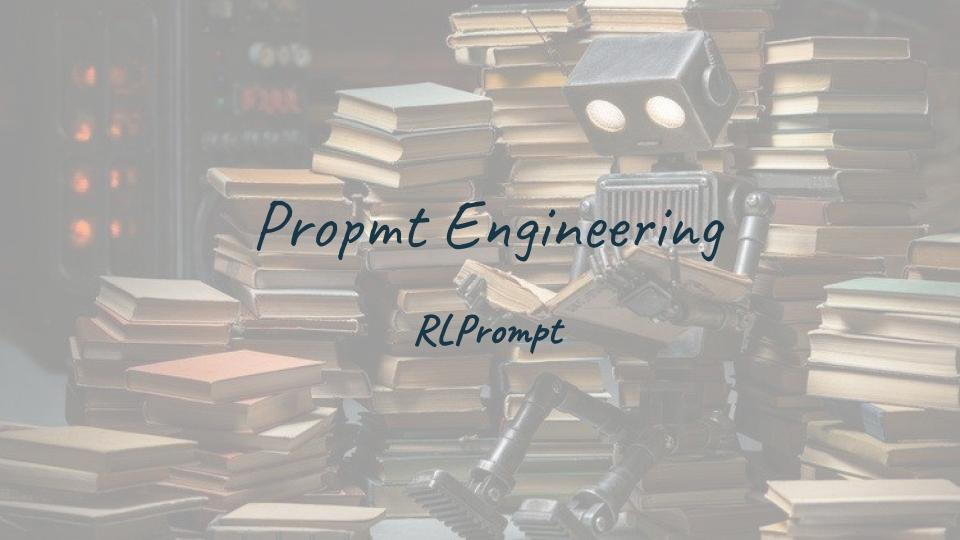
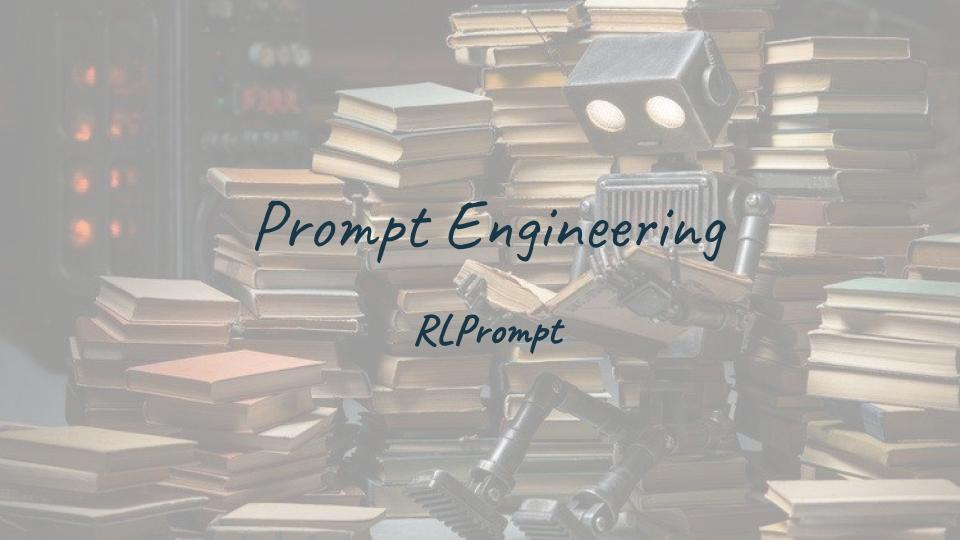
Some problems resolved

Changed region(s): [[0.25, 0.3556, 0.75, 0.5037]]

diff --git a/papers/weekly-review/_posts/2023-02-12-week-6.md b/papers/weekly-review/_posts/2023-02-12-week-6.md
@@ -11,10 +11,10 @@ hide_last_modified: true
 ---
 
 Several interesting papers are published in this week in NLP. Here is a list of them:
-* [Toolformer: Language Models Can Teach Themselves to Use Tools][ToolformerLink]
-* [Offsite-Tuning: Transfer Learning without Full Model][OffsiteTuning]
+* [Toolformer: Language Models Can Teach Themselves to Use Tools][ToolformerSum]
+* [Offsite-Tuning: Transfer Learning without Full Model][OffsiteTuningSum]
 
-## Toolformer
+## [Toolformer][ToolformerPaper]
 
 This paper is really interesting, because it shows that language models, such as GPT-3, can be trained to perform arithmetic operations, such as addition, subtraction, multiplication, and division, with a high level of accuracy. While probabilistic methods are often used to generate answers to questions, some questions have a definite answer that should be calculated rather than generated randomly. In such cases, the use of language models that can generate exact answers can be beneficial. 
 
@@ -27,7 +27,7 @@ The idea in [Toolformer][ToolformerLink] is to leverage some external tools (e.g
 After calculating $$loss_1$$ and $$loss_2$$, if ($$loss_2$$ - $$loss_1$$) is more than a specific threshold, then it means that adding the API call can help the model to generate a sentence similar to the original one. So, in this case, the augmented sentence is added to the train dataset. 
 
 
-## Offsite-Tuning 
+## [Offsite-Tuning][OffsiteTuningPaper]
 
 This problem focuses on a very interesting problem. Recently, Large Language Models (LLMs) are being increasingly popular because of their fantastic performance for different task. However, since these models are very large and also significantly-high computation power is required for training or even fine-tuning them, users cannot download the model weights on their systems to adapt them based on their data and task. Apart from that, in some cases the model owners are also very reluctant to share their models publicly--such as GPT-3 proposed by OpenAI. The approach that is now being used by both model owners and data owner is that the data owner sends the data to the model owner data. Then, the model owner fine-tune the model based on the data and provides the access to the fine-tuned model to the data owner [Link][Gpt3Finetuning]. This process violates the privacy of data owners, because they need to send their data directly to the model owners. 
 
@@ -55,6 +55,8 @@ Accordingly, the three requirements metioned above can be formulated as follows:
 
 In general, this is a very novel approach for addressing the violation of data privacy problem in fine-tuning LLMs.
 
-[ToolformerLink]: https://arxiv.org/pdf/2302.04761.pdf
-[OffsiteTuning]: https://arxiv.org/pdf/2302.04870.pdf
+[ToolformerPaper]: https://arxiv.org/pdf/2302.04761.pdf
+[ToolformerSum]: /papers/weekly-review/nlp/2023-02-12-week-6/#toolformer
+[OffsiteTuningPaper]: https://arxiv.org/pdf/2302.04761.pdf
+[OffsiteTuningSum]: /papers/weekly-review/nlp/2023-02-12-week-6/#offsite-tuning
 [Gpt3Finetuning]: https://platform.openai.com/docs/guides/fine-tuning

diff --git a/papers/_posts/2023-05-01-prompts-rl.md b/papers/_posts/2023-05-01-prompts-rl.md
@@ -19,13 +19,13 @@ This paper proposed an RL-based approach for optimizing the discrete prompts. In
 
 Generally, RLPrompt is a Multi-Layer Perceptron (MLP)--represented by $$\pi$$--which is same as the <i>policy</i> concept in RL. Let us say that $$\theta$$ is the weights and parameter-set for $$\pi$$. Then, we can use the notation of $$\pi_{\theta}$$ to denote the MLP and its parameters. So, for each downstream task, $$\pi_{\theta}$$ is first trained to find the optimal set of prompts. From then, the optimal prompts can be used for that specific downstream task. But the question is that how such MLP should be trained in order to find the optimal prompts per task?
 
-Let us say that we are going to train $$\pi_{\theta}$$ for task T (e.g., a classification task), then the training procedure is as follows:
+Let us say that we are going to train $$\pi_{\theta}$$ for task $$D$$ (e.g., a classification task), then the training procedure is as follows:
 
 1. First, we need to get the embedding of input $$x$$. So, we can use an embedding model for encoding the input sentence. This embedding model can be any language model, such as BERT, DistillBERT, RoBERTa, etc.
 
 1. Input $$x$$ is passed to $$\pi_{\theta}$$ and the prompt set $$z$$ is returned. To be more specific, $$\pi_{\theta}$$ returns a token for each round. So, for generating a prompt with $$T$$ tokens, it should be called for $$T$$ times. If we want to have a prompt of size $$T$$, then we need to get the tokens corresponding to the top $$T$$ highest probabilities. ($$z = [z_1, ..., z_T]$$)
 
-1. The concatenation of prompt $$z$$ and the input $$x$$ are passed to the langugage model which is used for downstream task $$T$$. This language model is represetend by $$LM$$, and its output is denoted by $$y_{LM}(z, x)$$. The performance of the LM for task $D$ is represented as $$R$$. $$R$$ is a function which takes the output of the langugae model as input and returns the score (how well is the output)--$$score = R(y_{LM}(z, x))$$. Moreover, the authors mention that for having a stable MLP the score value should be normalized!
+1. The concatenation of prompt $$z$$ and the input $$x$$ are passed to the langugage model which is used for downstream task $$D$$. This language model is represetend by $$LM$$, and its output is denoted by $$y_{LM}(z, x)$$. The performance of the LM for task $$D$$ is represented as $$R$$. $$R$$ is a function which takes the output of the langugae model as input and returns the score (how well is the output)--$$score = R(y_{LM}(z, x))$$. For example, for the classification task, $$R$$ is the how frequent the model can predict the gold label. Moreover, the authors mention that for having a stable MLP the score value should be normalized!
 
 1. According to the $$score$$ value computed in the previous step, $$\pi_{\theta}$$ is trained and $$\theta$$ is updated.
 

diff --git a/papers/weekly-review/_posts/2023-03-19-week-11.md b/papers/weekly-review/_posts/2023-03-19-week-11.md
@@ -12,10 +12,10 @@ hide_last_modified: true
 
 
 Several interesting papers are published in this week in NLP. Here is a list of them:
-* [CoLT5: Faster Long-range Transformers with Conditional Computation][colt5]
-* [Memorizing Transformers][memorizingTransformers]
+* [CoLT5: Faster Long-range Transformers with Conditional Computation][colt5Sum]
+* [Memorizing Transformers][memorizingTransformersSum]
 
-## CoLT5: Faster Long-range Transformers with Conditional Computation
+## [CoLT5: Faster Long-range Transformers with Conditional Computation][colt5Paper]
 
 This paper focuses on the scalability problem of computing attentions in transformer-based architectures. Such scalability problem especially appears while processing long documents with a transformer-based models; the reason is that: 
 1. A main component of the transformer architecture is the attention module. However, the attention computational cost scales quadratically with input length.
@@ -51,7 +51,7 @@ $$X_i = X_i + FFN_{Light}(X_i) + s_i * FFN_{Heavy}(X_i)$$
 They used FLOP as the metric for measuring the computational cost of their approach. Their experiments show that they could achieve less computational cost compared to their baseline--LongT5.
 
 
-## Memorizing Transformers
+## [Memorizing Transformers][memorizingTransformersPaper]
 
 The way that most of transformer-based langugae models work is that, first, they should be pretrained and finetuned; then, they can be used in different appications. During the runtime (the application phase), since the weights and model parameters are freezed, the models cannot learn anything new. So, this paper tries to solve this problem by adding an extenral memory for the transformer architecture. 
 
@@ -93,5 +93,7 @@ $$
 
 They applied their idea on different transformer-based architecture. Their finding is that adding memory to such architectures can significantly improve the performance. Even, adding a small-size memory to a light-weight transformer-based architecture can result in better performance than using a larage and heavy transformer-based architecture with a lot of learnable parameters.
 
-[memorizingTransformers]: https://arxiv.org/abs/2203.08913
-[colt5]: https://arxiv.org/pdf/2303.09752.pdf
+[memorizingTransformersPaper]: https://arxiv.org/abs/2203.08913
+[memorizingTransformersSum]: /papers/weekly-review/nlp/2023-03-19-week-11/#memorizing-transformers
+[colt5Paper]: https://arxiv.org/pdf/2303.09752.pdf
+[colt5Sum]: /papers/weekly-review/nlp/2023-03-19-week-11/#colt5-faster-long-range-transformers-with-conditional-computation

diff --git a/papers/weekly-review/_posts/2023-03-26-week-12.md b/papers/weekly-review/_posts/2023-03-26-week-12.md
@@ -12,9 +12,9 @@ hide_last_modified: true
 
 
 Several interesting papers are published in this week in NLP. Here is a list of them:
-* [Context-faithful Prompting for Large Language Models][contextFaithful]
+* [Context-faithful Prompting for Large Language Models][contextFaithfulSum]
 
-## Context-faithful Prompting for Large Language Models
+## [Context-faithful Prompting for Large Language Models][contextFaithfulPaper]
 
 This paper focuses on the fact that sometimes langugae models rely too much on their learnt knowledge, which may cause them to overlook the contextual cues and information. This can be problematic in context-sensitive NLP task. For example, if the language model is asked to answer a specific question only according to the provided context, then it is not supposed to use its own knowledge for answering the question. This problematic behavour can be investigated in two situations:
 * Knowledge Conflict: When the provided context contains some information which is in conflict with the language model's knowledge! For example:
@@ -53,4 +53,5 @@ For MRC task, they replaced some random entities in the dataset with something e
 For RE task, the same approach is applied! The relations are replaced with something else. Then, the model is asked to answer according the counterfactual context.
 
 
-[contextFaithful]: https://arxiv.org/pdf/2303.11315.pdf
+[contextFaithfulPaper]: https://arxiv.org/pdf/2303.11315.pdf
+[contextFaithfulSum]: /papers/weekly-review/nlp/2023-03-26-week-12/#context-faithful-prompting-for-large-language-models

diff --git a/papers/weekly-review/_posts/2023-02-19-week-7.md b/papers/weekly-review/_posts/2023-02-19-week-7.md
@@ -11,10 +11,10 @@ hide_last_modified: true
 ---
 
 The following papers are among the most novel ones in this week:
-* [Guiding Pretraining in Reinforcement Learning with Large Language Models][guidingPretraining]
-* [The Capacity for Moral Self-Correction in Large Language Models][selfCorrection]
+* Guiding Pretraining in Reinforcement Learning with Large Language Models
+* [The Capacity for Moral Self-Correction in Large Language Models][selfCorrectionSum]
 
-## The Capacity for Moral Self-Correction in Large Language Models
+## [The Capacity for Moral Self-Correction in Large Language Models][selfCorrectionPaper]
 
 Large language models are proved to be biased in different aspects--race, gender, class, and etc. Even, the worst part is that, larger models tend to have even more pronounced biases! So, this paper focuses on proposing an approach for having fairness in language models by overcoming such unethical and harmful biases.
 
@@ -91,4 +91,5 @@ Then, a langugae model is used to predict that given the information of a studen
 
 
 [guidingPretraining]: https://arxiv.org/pdf/2302.06692.pdf
-[selfCorrection]: https://arxiv.org/pdf/2302.07459.pdf
+[selfCorrectionPaper]: https://arxiv.org/pdf/2302.07459.pdf
+[selfCorrectionSum]: /papers/weekly-review/nlp/2023-02-19-week-7/#the-capacity-for-moral-self-correction-in-large-language-models

diff --git a/papers/weekly-review/_posts/2023-03-05-week-9.md b/papers/weekly-review/_posts/2023-03-05-week-9.md
@@ -11,11 +11,11 @@ hide_last_modified: true
 ---
 
 To me, the most interesting papers among those published in this week are:
-* [MathPrompter: Mathematical Reasoning Using Large Langugage Models][mathPrompter]
-* [LLaMA: Open and Efficient Foundation Language Models][LLaMa]
+* [MathPrompter: Mathematical Reasoning Using Large Langugage Models][mathPrompterSum]
+* LLaMA: Open and Efficient Foundation Language Models
 
 
-## MathPrompter
+## [MathPrompter][mathPrompterPaper]
 
 This paper focuses on using LLMs for mathematical reasoning. Some of the challenges in this work are as follows:
 
@@ -56,5 +56,7 @@ This is definitely a very interesting and novel idea. However, I personally have
 1. If for the specific values in the input mathematical problem, algebraic and python expressions result in different values, then what can be reported to the user?
 
 
-[mathPrompter]: https://arxiv.org/pdf/2303.05398.pdf
-[LLaMa]: https://arxiv.org/pdf/2302.13971.pdf
+[mathPrompterPaper]: https://arxiv.org/pdf/2303.05398.pdf
+[mathPrompterSum]: /papers/weekly-review/nlp/2023-03-05-week-9/#mathprompter
+[LLaMaPaper]: https://arxiv.org/pdf/2302.13971.pdf
+[LLaMaSum]: https://arxiv.org/pdf/2302.13971.pdf

diff --git a/papers/weekly-review/_posts/2023-03-12-week-10.md b/papers/weekly-review/_posts/2023-03-12-week-10.md
@@ -1,0 +1,27 @@
+---
+layout: post
+title: Paper Review - Week 10
+image: 
+  path: /assets/img/weekly-review/nlp_cover_week_10.jpg
+categories: [papers, weekly-review, nlp]
+description: >
+    Top NLP Papers Published from March 06 to March 12
+sitemap: false
+hide_last_modified: true
+---
+
+
+Several interesting papers are published in this week in NLP. Here is a list of them:
+* [Large Language Models Are Human-Level Prompt Engineers][humanLevelPromptEngineeringSum]
+* [PaLM-E: An Embodied Multimodal Language Model][palmeSum]
+
+
+## [Large Language Models Are Human-Level Prompt Engineers][humanLevelPromptEngineeringPaper]
+
+## [PaLM-E: An Embodied Multimodal Language Model][palmePaper]
+
+
+[humanLevelPromptEngineeringPaper]: https://arxiv.org/abs/2211.01910
+[humanLevelPromptEngineeringSum]: /papers/weekly-review/nlp/2023-03-12-week-10/#large-language-models-are-human-level-prompt-engineers
+[palmePaper]: https://palm-e.github.io/assets/palm-e.pdf
+[palmeSum]: /papers/weekly-review/nlp/2023-03-12-week-10/#palm-e-an-embodied-multimodal-language-model
